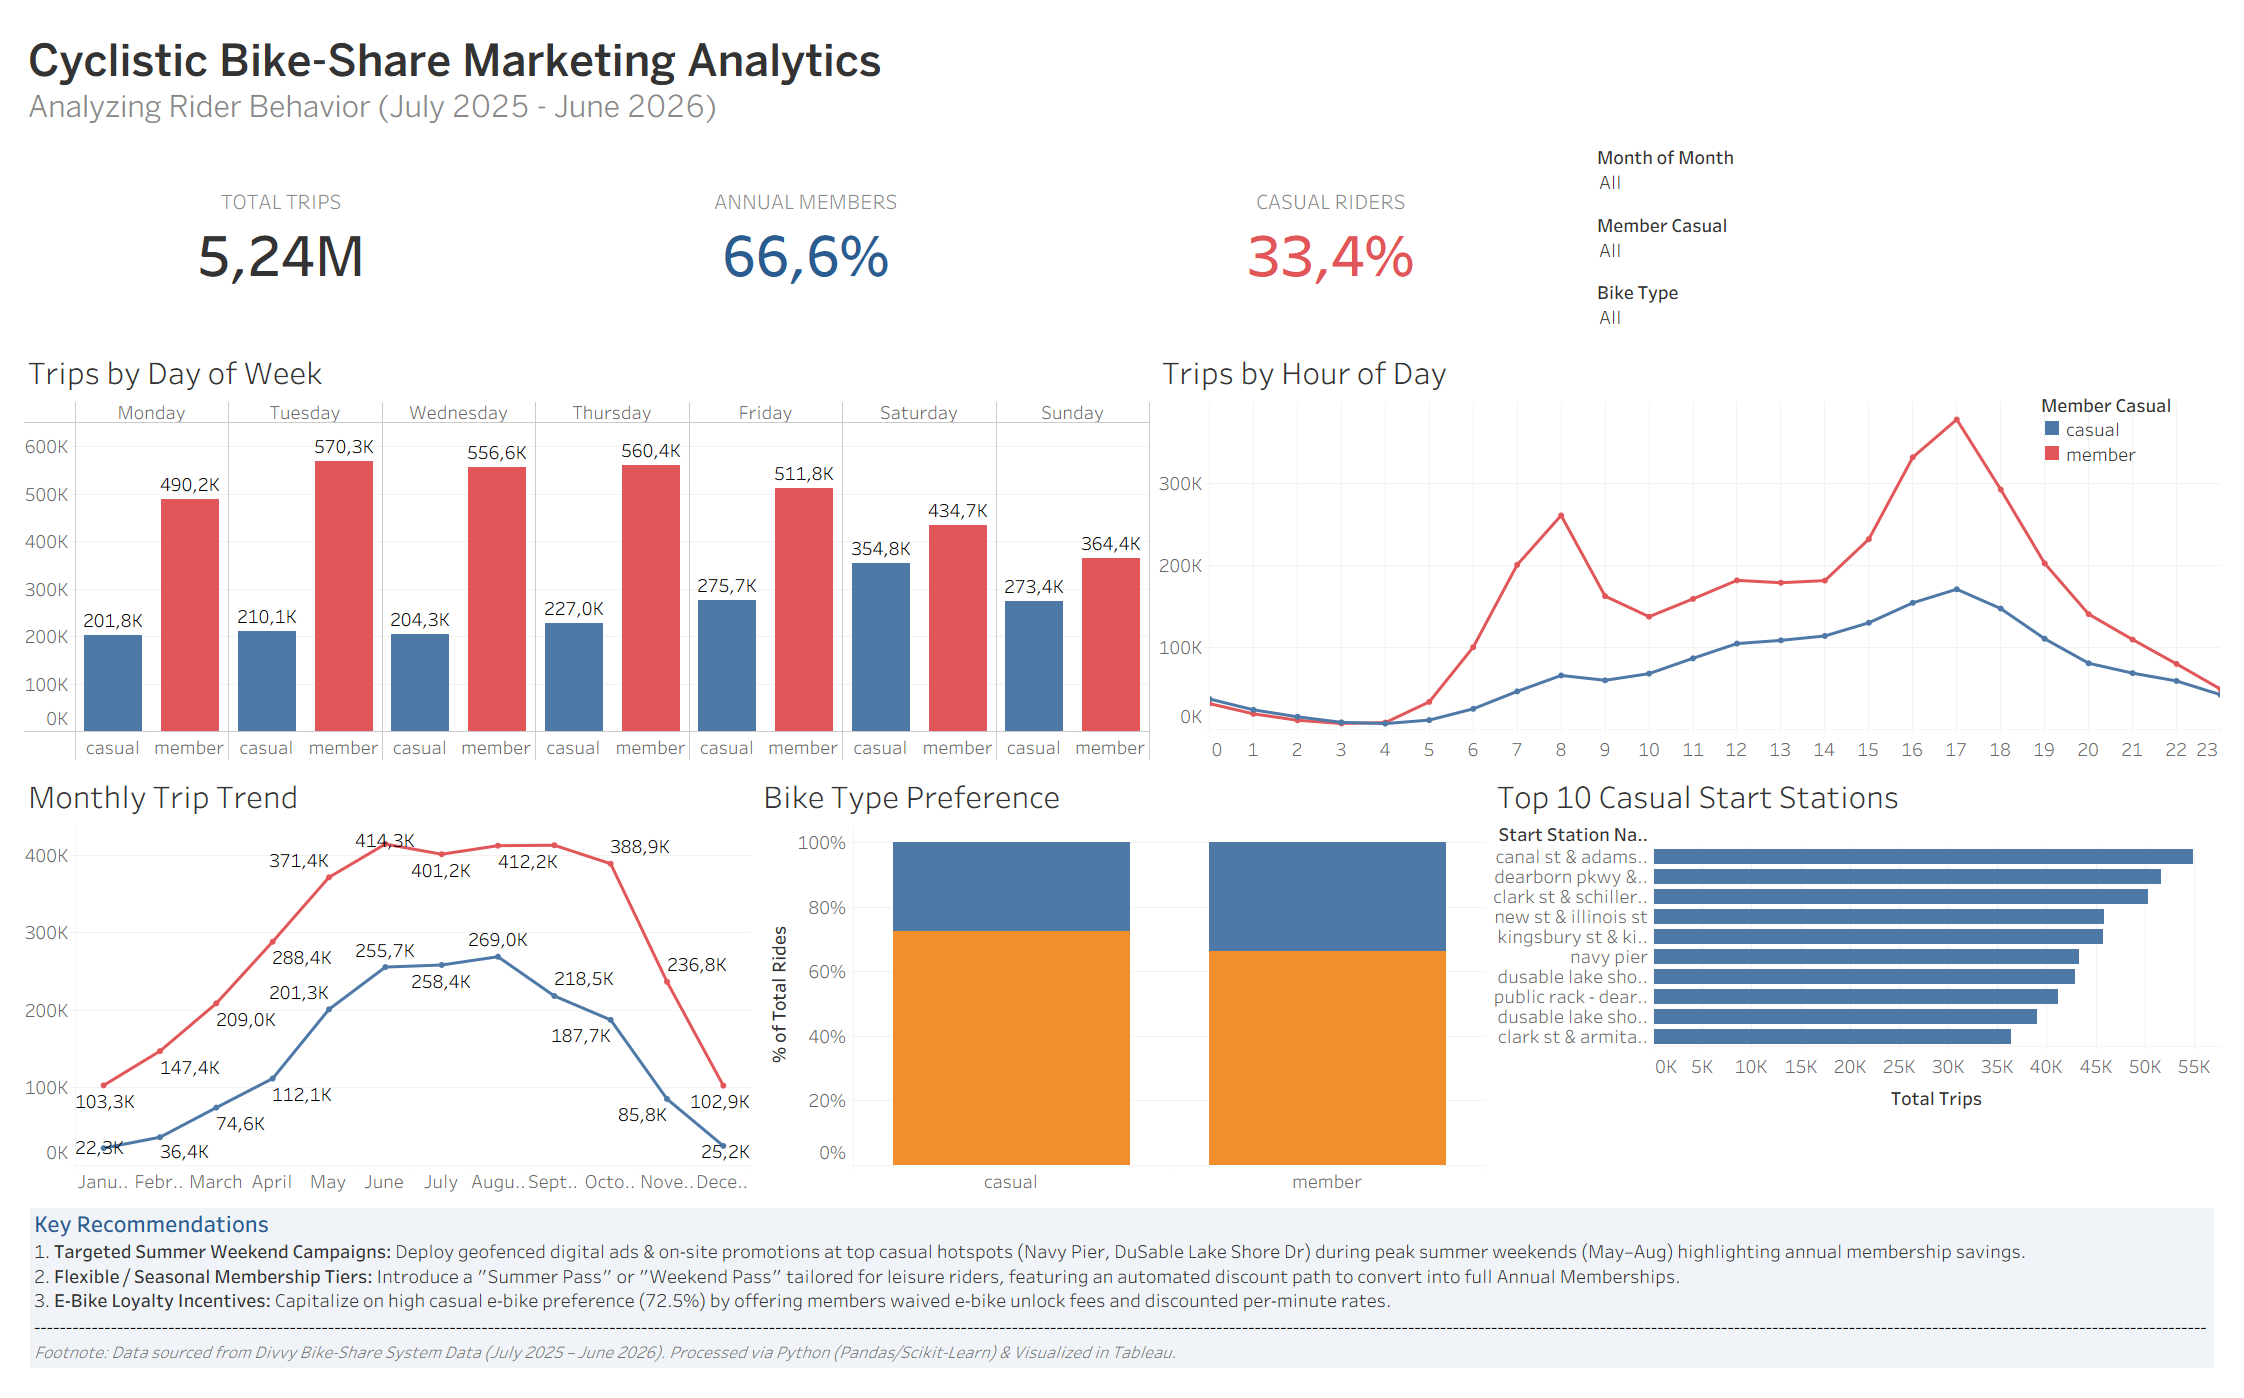
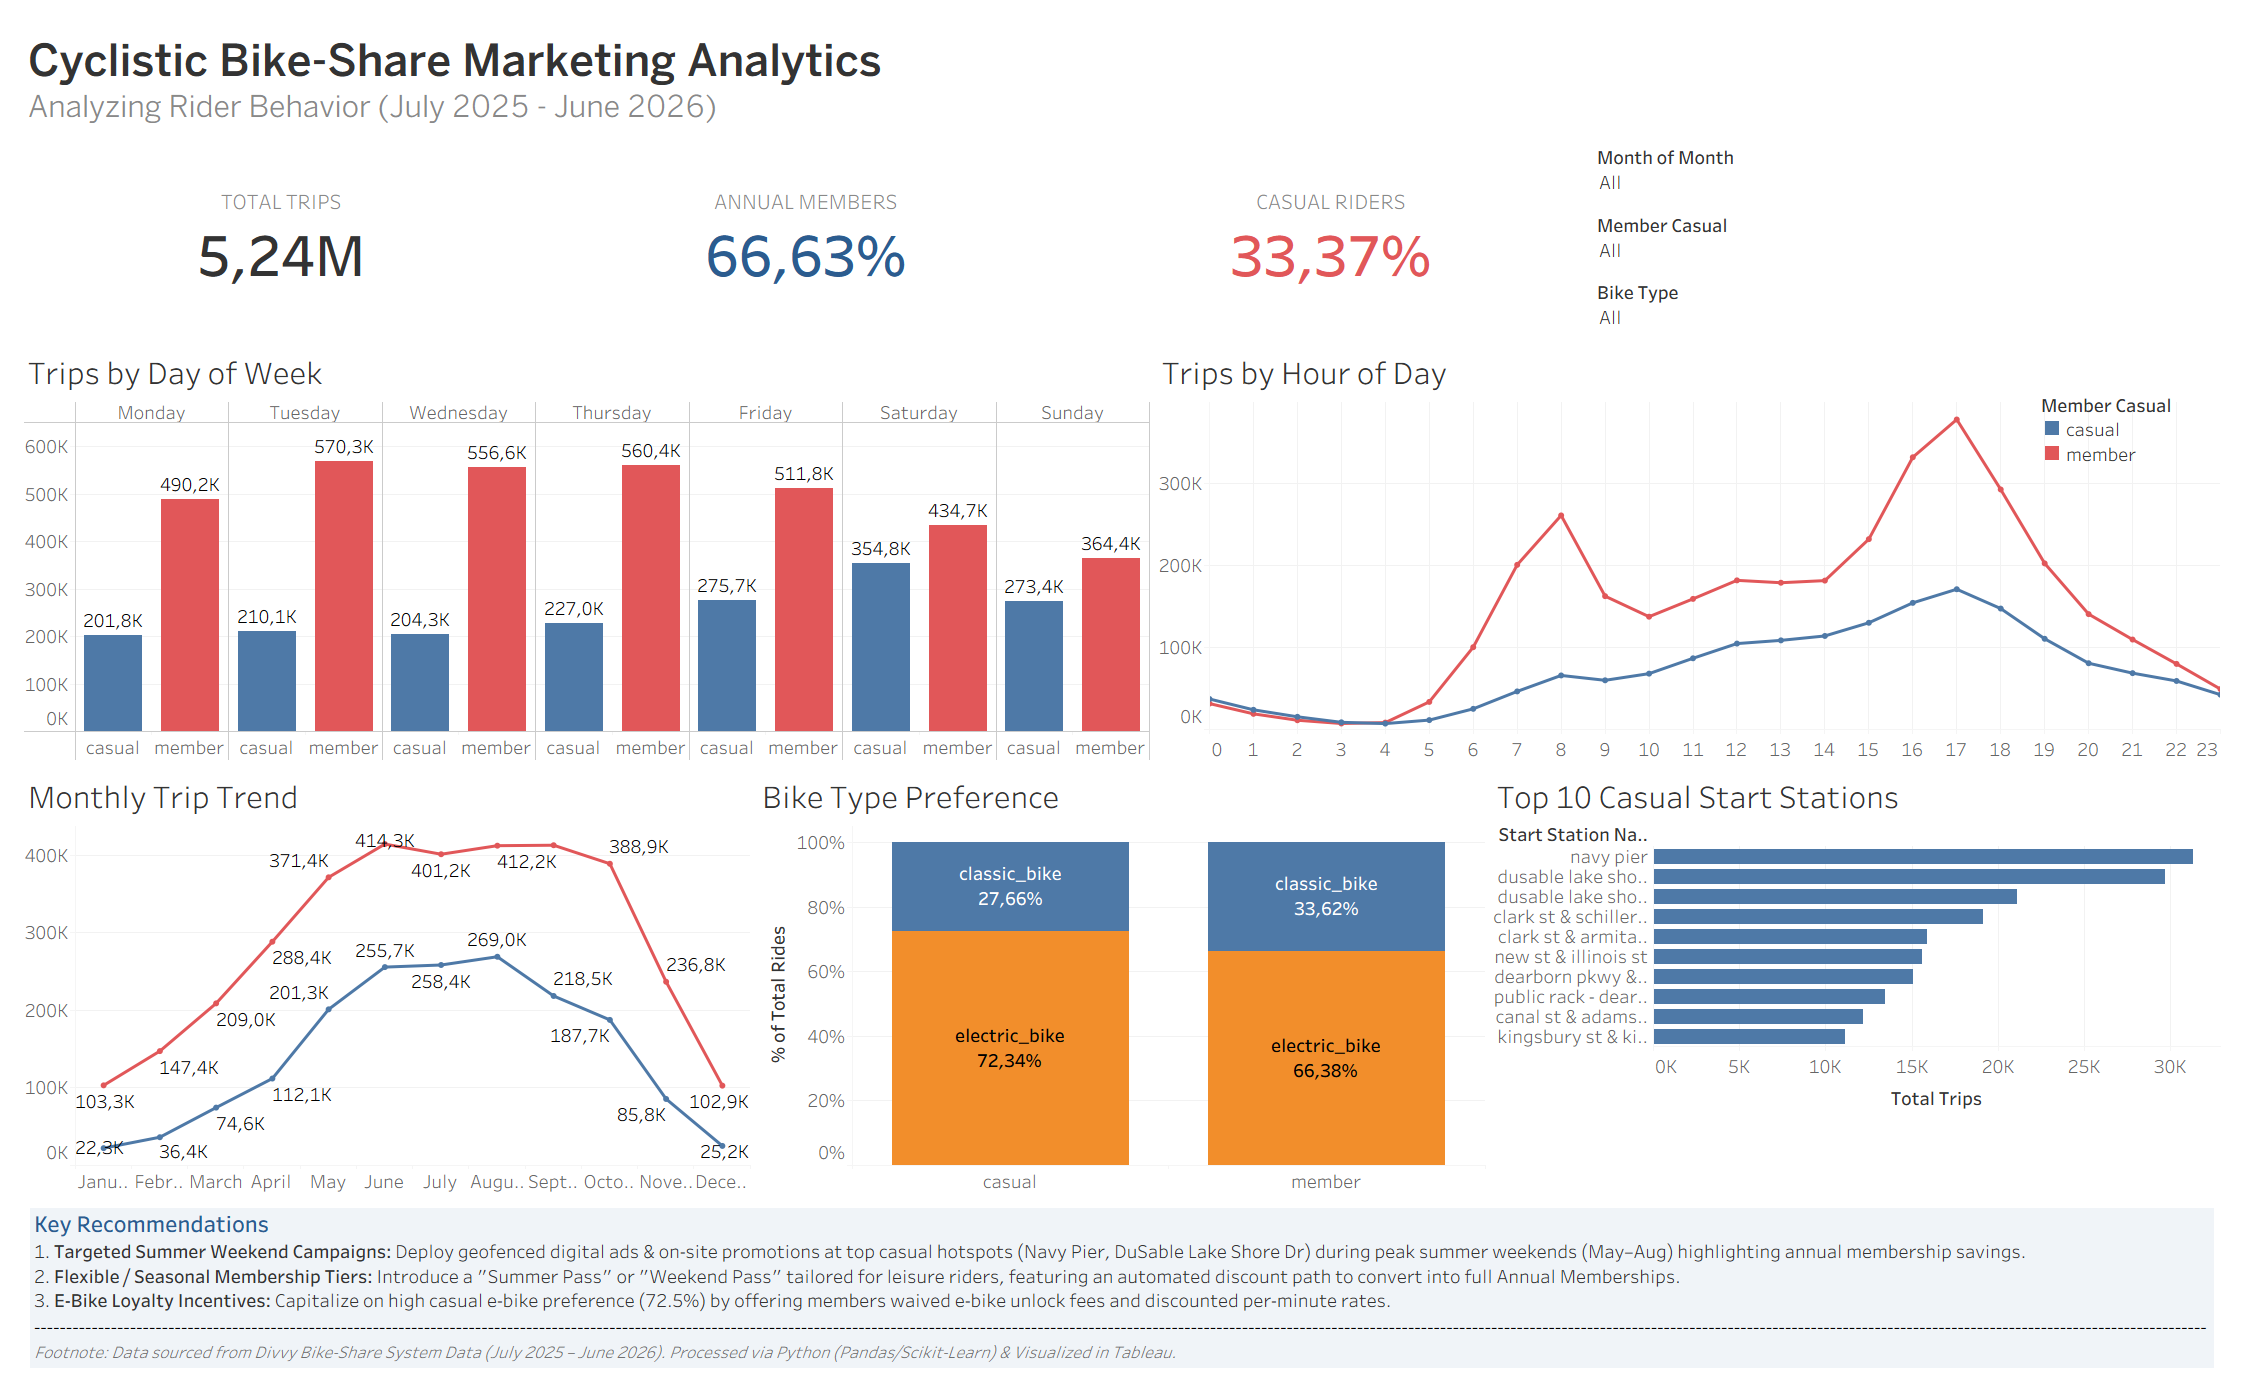
Update project dates and dashboard image
Correct project duration in README: replace the commented 14–20 July 2026 block with an active entry reporting 20–27 July 2026 (7 days). Also update dashboard/dashboard_overview.png with a refreshed image.

diff --git a/README.md b/README.md
@@ -15,10 +15,9 @@ You are a junior data analyst working on the marketing analyst team at Cyclistic
 | **Cyclistic marketing analytics team** | A team of data analysts who are responsible for colecting, analyzing, and reporting data that helps guide Cyclistic marketing strategy. (My team) |
 | **Cyclistic executive team** | The notoriously detail-oriented executive team will decide whether to approve the recommended marketing program. |
 
-<!-- ### Project Duration
-The project was implemented from **14 July 2026** to **20 July 2026**. <br>
-The project was completed within **7 days**. -->
-
+### Project Duration
+The project was implemented from **20 July 2026** to **26 July 2026**. <br>
+The project was completed within **6 days**.
 ---
 
 <!--
